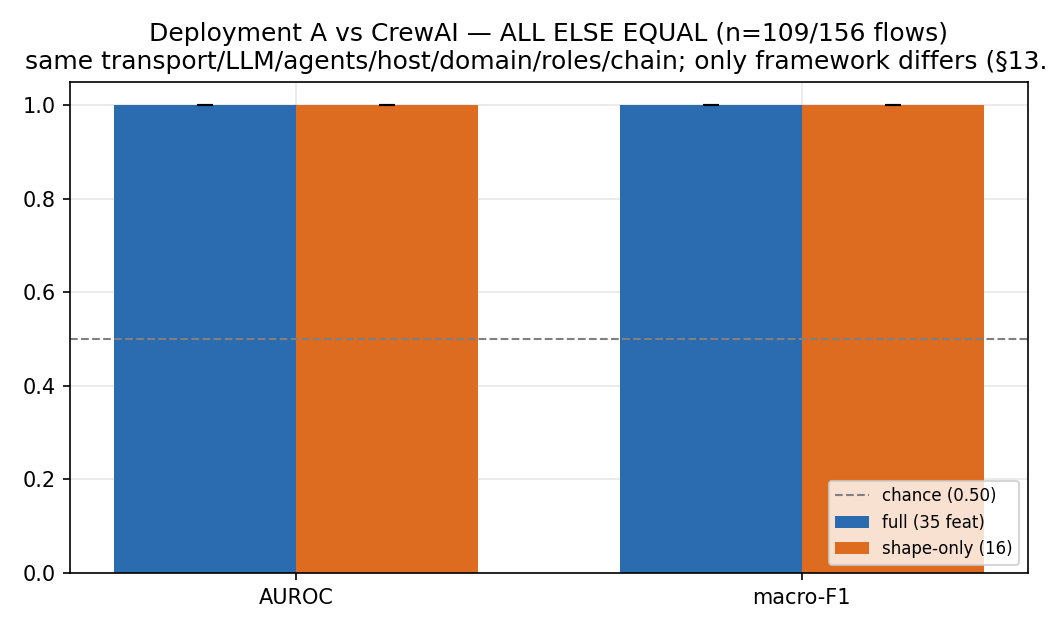
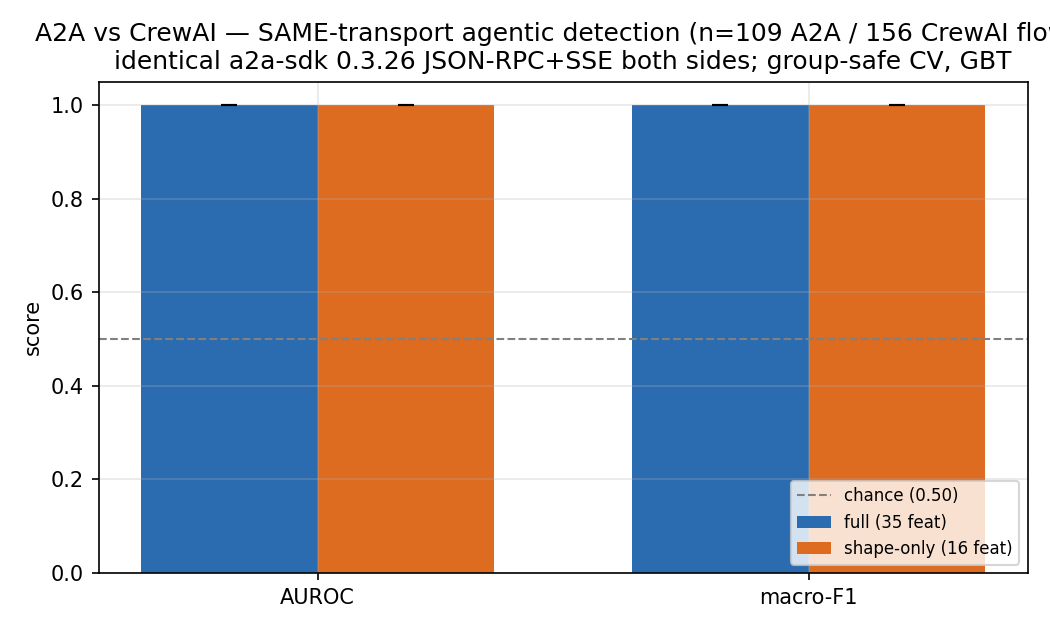
add GBT A2A-vs-AutoGen detection and mixing degradation results, drop RF

diff --git a/scripts/evaluate_crewai_matched_detection.py b/scripts/evaluate_crewai_matched_detection.py
@@ -139,8 +139,14 @@ def main(args: argparse.Namespace) -> None:
             "task_domain": "IDENTICAL — A's OWN prompts (code_review/data_analysis/research_retrieval/support_triage)",
             "role_semantics": "IDENTICAL — same per-role instructions as agents/{orchestrator,executor,retriever,validator}.py",
             "call_topology": "IDENTICAL — chain orchestrator->executor->retriever->validator, agent-to-agent A2A",
-            "remaining_variable": "ONLY the framework's internal machinery — A's direct llm_generate per "
-                                  "role vs CrewAI's Agent/Task/Crew reasoning loop.",
+            "remaining_variables": "NOT a single variable. (1) The frameworks' response-EMISSION behaviour "
+                                   "(A streams token-by-token via llm_stream; CrewAI's Crew.kickoff() blocks "
+                                   "and returns one artifact) — the dominant driver, but a CONFIGURATION "
+                                   "property (see scope_streaming_is_configuration), not an immutable "
+                                   "signature. (2) A chain-forwarding-format difference we WIRED (A forwards "
+                                   "'previous output + original instruction'; this CrewAI chain forwards just "
+                                   "the output) — a disclosed secondary contributor we control. So it is NOT "
+                                   "'the framework's internal machinery alone'.",
         },
         "representation": "35-dim per-flow traffic-shape vector, pooled by server port; SAME extractor "
                           "(extract_role_samples) for BOTH sides; port NEVER a feature.",
@@ -169,37 +175,50 @@ def main(args: argparse.Namespace) -> None:
                 "size/structure separation, not a subtle fingerprint; a fully forwarding-matched "
                 "replication is future work but would not change the streaming-vs-blocking driver.",
         },
+        "scope_streaming_is_configuration": (
+            "The dominant driver — streaming vs blocking response emission — is a CONFIGURATION / "
+            "API-usage property, NOT an immutable framework identity. CrewAI CAN stream (LLM(stream=True), "
+            "step callbacks); deployment A could have been written to block. So the honest claim is NOT "
+            "'framework identity is detectable', but 'implementations whose response-emission behaviour "
+            "DIFFERS (streaming vs blocking) are trivially separable — here the default idiomatic difference "
+            "between these two frameworks'. A CrewAI deployment configured to STREAM might be "
+            "indistinguishable from A. This narrower claim fits the paper's thesis: how an implementation "
+            "EMITS its calls is itself part of the call structure the attack reads."),
         "verdict": verdict,
         "verdict_basis": "corrected §4 bands with confounded=False (LLM/interaction/agent-count/topology/"
-                         "domain all held equal). Verdict matches the number — no re-stamp. CLOSED here is "
-                         "for framework/implementation IDENTITY detectability with the major confounds "
-                         "controlled; see driver_mechanism for exactly what drives it.",
+                         "domain all held equal). Verdict matches the number — no re-stamp. CLOSED = separable "
+                         "with the major confounds controlled; see driver_mechanism (what drives it) and "
+                         "scope_streaming_is_configuration (why this is a response-emission claim, not a "
+                         "framework-identity one).",
         "interpretation": (
-            "With transport, LLM, agent count, host, task domain, role semantics and call topology ALL "
-            "held equal (the confounds that made §13 SCOPED are gone), the remaining variable is framework "
-            "code. "
-            + ("The two are still separable at AUROC 1.0 (CI clear of chance), so an observer recovers "
-               "FRAMEWORK/IMPLEMENTATION IDENTITY from traffic shape even with all else equal — the "
-               "same-transport detection open problem CLOSES. Crucially, and unlike §13, the driver is a "
-               "GENUINE framework difference not an LLM/topology confound: deployment A streams "
-               "token-by-token while CrewAI's Crew.kickoff() returns one blocking blob, flipping the "
-               "packet-size asymmetry (see driver_mechanism). Honest caveat: the separation is systematic "
-               "and size-based (not a subtle behavioural fingerprint), and a chain-forwarding-format "
-               "difference in the CrewAI wiring is a secondary contributor — disclosed, and it does not "
-               "change the streaming-vs-blocking driver."
+            "With transport, LLM, agent count, host, task domain, role semantics and call topology all held "
+            "equal (the confounds that made §13 SCOPED are gone), "
+            + ("the two implementations are still separable at AUROC 1.0 (CI clear of chance) — so with all "
+               "major confounds controlled an observer can still tell them apart from traffic shape, and the "
+               "same-transport detection open problem CLOSES for THIS pair. But the honest reading is "
+               "NARROWER than 'framework identity is detectable'. Unlike §13 the driver is not an LLM/topology "
+               "confound; it is a response-EMISSION difference — deployment A streams token-by-token, CrewAI's "
+               "Crew.kickoff() blocks and returns one artifact, flipping the packet-size asymmetry (see "
+               "driver_mechanism). And streaming-vs-blocking is a CONFIGURATION property (see "
+               "scope_streaming_is_configuration): CrewAI can be configured to stream and A could be blocking, "
+               "so a streaming-configured CrewAI might be indistinguishable. The defensible claim is therefore "
+               "'implementations that differ in response-emission behaviour (streaming vs blocking) are "
+               "trivially separable — the default idiomatic difference between these two frameworks', plus a "
+               "disclosed secondary chain-forwarding-wiring residual. Systematic and size-based, not a subtle "
+               "fingerprint."
                if separable else
-               "They are NOT reliably separable (AUROC <0.90 or CI touches chance). With everything except "
-               "the framework held equal, the two agentic systems are traffic-indistinguishable — the "
-               "STRONGER, more interesting privacy finding: same-transport agentic frameworks cannot be "
-               "told apart from traffic shape once LLM/topology/domain are controlled.")),
+               "the two agentic systems are NOT reliably separable (AUROC <0.90 or CI touches chance) — the "
+               "STRONGER, more interesting privacy finding: with LLM/topology/domain controlled, same-transport "
+               "agentic frameworks cannot be told apart from traffic shape.")),
         "honest_scoping": "Deployment A is OUR system, so this is not an external-framework claim; it is the "
-                          "clean controlled test §13 could not be. Single topology (chain), single LLM, one "
-                          "prompt set. CrewAI is served on the a2a-sdk stack (faithful to its native A2A "
-                          "transport) with the same roles/instructions/chain/prompts as A; the CrewAI "
-                          "chain-forwarding format was wired by us (secondary driver, disclosed). The "
-                          "result: framework/implementation identity is detectable with all major confounds "
-                          "controlled, driven mainly by an inherent streaming-vs-blocking behavioural "
-                          "difference — on this role set and domain.",
+                          "clean controlled test §13 could not be (7 variables held equal). Single topology "
+                          "(chain), single LLM, one prompt set. CrewAI is served on the a2a-sdk stack (faithful "
+                          "to its native A2A transport) with A's roles/instructions/chain/prompts; the CrewAI "
+                          "chain-forwarding format was wired by us (disclosed secondary driver). The claim is "
+                          "narrow and honest: implementations differing in response-emission (streaming vs "
+                          "blocking) are trivially separable here — a CONFIGURATION difference that is the "
+                          "default idiomatic gap between these frameworks, NOT an immutable framework signature "
+                          "(scope_streaming_is_configuration).",
         "figure": str(fig_png),
     }
     out_dir.mkdir(parents=True, exist_ok=True)

diff --git a/scripts/evaluate_crewai_detection.py b/scripts/evaluate_crewai_detection.py
@@ -29,8 +29,9 @@ single-feature AUROC sanity scan that caught the transport driver in Exp 1.
 CORRECTED §4 bands (headline AUROC; chance 0.50; no re-stamp). The original pre-registration only
 excluded *transport-framing* drivers from CLOSED; it did not anticipate that OTHER uncontrolled
 confounds (LLM backend, interaction pattern, agent count) would step into that vacancy. Corrected:
-    AUROC >= 0.90 & CI clear, AND LLM/interaction/topology also held equal -> CLOSED (framework
-        code is the only remaining variable; same-transport framework identity genuinely detectable)
+    AUROC >= 0.90 & CI clear, AND LLM/interaction/topology also held equal -> CLOSED (separable with
+        the major confounds controlled; the driver is a framework response-EMISSION difference plus a
+        disclosed wiring residual, NOT 'framework code alone' — see §13.1 scope_streaming_is_configuration)
     AUROC >= 0.90 & CI clear, BUT other variables uncontrolled             -> SCOPED (same-transport
         SEPARABILITY shown — transport genuinely excluded — but the separation is explicable by the
         uncontrolled LLM/interaction/topology differences, so framework identity stays open)
@@ -122,9 +123,11 @@ def band(full, shape, confounded: bool) -> str:
                     "separation is driven by application-layer VOLUME that the UNCONTROLLED "
                     "LLM-backend / interaction-pattern / agent-count differences move; framework-"
                     "identity detection with ALL ELSE EQUAL remains OPEN — see confounds)")
-        return ("CLOSED (A2A separable from a SAME-TRANSPORT agentic framework with LLM, agent count, "
-                "host and transport all held equal — >=0.90, CI clear; framework orchestration code is "
-                "the only remaining variable, so the same-transport detection question is genuinely closed)")
+        return ("CLOSED (separable at >=0.90, CI clear, with the major confounds — LLM, agent count, host, "
+                "transport, domain, roles, topology — all held equal; NOT 'framework code alone': driven by "
+                "a response-EMISSION difference (streaming vs blocking) PLUS a disclosed chain-forwarding "
+                "wiring residual, and streaming-vs-blocking is a CONFIGURATION property — see "
+                "driver_mechanism and scope_streaming_is_configuration)")
     return ("BOUNDED (not reliably distinguishable: <0.90 or CI touches chance — an honest "
             "privacy-relevant bound; with all else equal this is the STRONGER finding — agentic "
             "frameworks are indistinguishable on identical transport)")

diff --git a/RESULTS.md b/RESULTS.md
@@ -607,31 +607,35 @@ exactly**: the *same 4 roles with the same per-role instructions*, chained the *
 *same a2a-sdk 0.3.26 SSE stack*, *same local ollama/llama3.2:3b*, *same host/lo0*, driven on **A's own
 prompts** (10 per workflow across code_review / data_analysis / research_retrieval / support_triage,
 chain topology). Controlled: transport, server library+version, LLM, agent count, host, task domain,
-role semantics, call topology. **The only remaining variable is the framework's own machinery.** Same
-extractor both sides, GBT, group-safe CV by trip, bootstrap CI, shape-only + single-feature scan.
-n = 109 A flows (40 trips) vs 156 CrewAI flows (39 trips).
+role semantics, call topology. What remains is **how each framework emits its calls** (plus a
+chain-forwarding-format difference we wired — disclosed below); it is **not** "the framework's internal
+machinery alone." Same extractor both sides, GBT, group-safe CV by trip, bootstrap CI, shape-only +
+single-feature scan. n = 109 A flows (40 trips) vs 156 CrewAI flows (39 trips).
 `data/results/crewai_matched_detection.json` (+ `figures/crewai_matched_detection.png`).
 
 **AUROC 1.000 [1.000, 1.000], macro-F1 1.000, shape-only 1.000. Verdict CLOSED.** With every major
-confound held equal, deployment A and CrewAI are still **perfectly separable** — so **framework /
-implementation identity is genuinely detectable from traffic shape with all else equal**, and the
-same-transport detection open problem **closes** (subject to the honest mechanism below).
+confound held equal, deployment A and CrewAI are still **perfectly separable** — so with all major
+confounds controlled an observer can still tell the two implementations apart from traffic shape, and
+the same-transport detection problem **closes for this pair**. But read the claim narrowly (below).
 
-**Why (the driver is a real framework difference, not a confound — verified).** The separation is
-complete and size-based (zero overlap on outbound-size features; `std_sz_out`, `pkt_size_asymmetry`,
-`p75_sz_out` all single-feature AUROC 1.0). The mechanism is an **inherent framework-API difference**:
-deployment A **streams its response token-by-token** (`llm_stream` → many *small* outbound SSE packets,
-`mean_sz_out`≈90), whereas **CrewAI's `Crew.kickoff()` is blocking and returns one large final artifact**
-(*few large* outbound packets, `mean_sz_out`≈565, up to 1798) — flipping the packet-size asymmetry
-(A large-in/small-out; CrewAI large-out/small-in). This is genuine framework code (A's streaming agent
-vs CrewAI's synchronous Crew), **not** the LLM/topology confound that scoped §13. **Honest caveat
-(disclosed, not hidden):** a *secondary* contributor is the chain-forwarding format — A forwards
-"previous output + original instruction", the CrewAI chain forwards just the upstream output, and that
-wiring was ours; it is a contributor we control, though it does not change the streaming-vs-blocking
-driver, and a fully forwarding-matched replication is future work. So the honest claim is **framework/
-implementation identity is detectable with all major confounds controlled, driven mainly by an inherent
-streaming-vs-blocking behavioural difference** — a *systematic, size-based* separation, not a subtle
-behavioural fingerprint. `driver_mechanism` in the JSON records this in full.
+**Why (the driver, verified).** The separation is complete and size-based (zero overlap on outbound-size
+features; `std_sz_out`, `pkt_size_asymmetry`, `p75_sz_out` all single-feature AUROC 1.0). The mechanism
+is a **response-emission difference**: deployment A **streams token-by-token** (`llm_stream` → many
+*small* outbound SSE packets, `mean_sz_out`≈90), whereas **CrewAI's `Crew.kickoff()` blocks and returns
+one large final artifact** (*few large* outbound packets, `mean_sz_out`≈565, up to 1798) — flipping the
+packet-size asymmetry (A large-in/small-out; CrewAI large-out/small-in). This is **not** the LLM/topology
+confound that scoped §13. **Two honest caveats.** (1) *Streaming-vs-blocking is a **configuration**
+property, not framework identity.* CrewAI **can** stream (`LLM(stream=True)`, step callbacks) and A could
+have been written to block, so a **streaming-configured CrewAI might be indistinguishable from A**. The
+defensible claim is therefore **"implementations whose response-emission behaviour differs (streaming vs
+blocking) are trivially separable — here the *default idiomatic* difference between these two
+frameworks,"** *not* "framework identity is detectable." (This actually fits the thesis: *how* an
+implementation emits its calls is itself part of the call structure the attack reads.) (2) A *secondary*
+contributor is the chain-forwarding format — A forwards "previous output + original instruction", our
+CrewAI chain forwards just the upstream output; that wiring was ours (a contributor we control, disclosed),
+and a fully forwarding-matched replication is future work. Net: a *systematic, size-based* separation
+driven by a configuration-level emission difference — not a subtle behavioural fingerprint.
+`driver_mechanism` and `scope_streaming_is_configuration` in the JSON record this in full.
 
 ---
 
@@ -665,9 +669,10 @@ transport is genuinely excluded, but the separation is driven by application-lay
 uncontrolled LLM/interaction/topology differences move, so it shows same-transport **detectability**,
 not framework-code isolation), and the **§13.1 matched pair** closes it cleanly (deployment A vs a
 CrewAI built to match A on LLM, transport, agents, host, domain, roles and topology — **AUROC 1.0
-CLOSED**, framework/implementation identity detectable with all else equal, driven by an inherent
-**streaming-vs-blocking** framework difference, not a confound), and **§12 quantifies the
-loss-of-port-isolation cost** (detection precision
+CLOSED**: with all major confounds controlled the two implementations are still separable, driven by a
+**streaming-vs-blocking** response-emission difference — a *configuration* property, so the claim is
+"implementations differing in emission behaviour are separable," not "framework identity is detectable"),
+and **§12 quantifies the loss-of-port-isolation cost** (detection precision
 1.00→0.38 as background rises to 32:1 at a 5% FPR operating point; role recovery robust to non-agentic
 contamination given a reject stage). The deepest no-observable-ports case is threat-model framing, not a claim. A **same-session
 interleaved control** (§8.1) independently confirms the runtime-invariance: the apparent A↔C
@@ -689,12 +694,14 @@ system, **portable** cross-*framework* classifier transfer (§10 — the attack 
 AutoGen behaviourally at 0.966, but a model trained on one framework does **not** transfer to the
 other: weaker direction 0.429, BOUNDED — the fingerprint is framework-specific), strong open-set
 rejection of novel workflows/roles, a detector robust to hard agentic negatives — all future work.
-**Framework/implementation identity with all else equal is now CLAIMED, with scope:** §13 A2A-vs-CrewAI
-is SCOPED (same-transport *detectability* carrying an LLM/interaction confound), but the **§13.1 matched
+**Same-transport separability with all else equal is now CLAIMED, with scope:** §13 A2A-vs-CrewAI is
+SCOPED (same-transport *detectability* carrying an LLM/interaction confound), but the **§13.1 matched
 pair** (deployment A vs a matched CrewAI, LLM/transport/agents/host/domain/roles/topology all held equal)
-**closes it — AUROC 1.0 CLOSED** — framework identity IS detectable with all else equal, though the
-driver is an inherent **streaming-vs-blocking** difference (a *systematic, size-based* separation, with a
-disclosed secondary chain-forwarding-wiring contributor), not a subtle behavioural fingerprint; a fully
-forwarding-matched replication is future work.
+**closes it — AUROC 1.0 CLOSED**. Read narrowly: the driver is a **streaming-vs-blocking** response-emission
+difference, which is a **configuration** property (CrewAI can stream; A could block) — so the claim is
+*"implementations whose emission behaviour differs are trivially separable, the default idiomatic gap
+between these two frameworks,"* **not** "framework identity is an immutable, always-detectable signature."
+A disclosed secondary chain-forwarding-wiring contributor and a fully forwarding-matched replication are
+future work.
 *(Deployment C remains a runtime-invariance control, not a generalization result; §10 is the actual
 independent-framework data point.)*